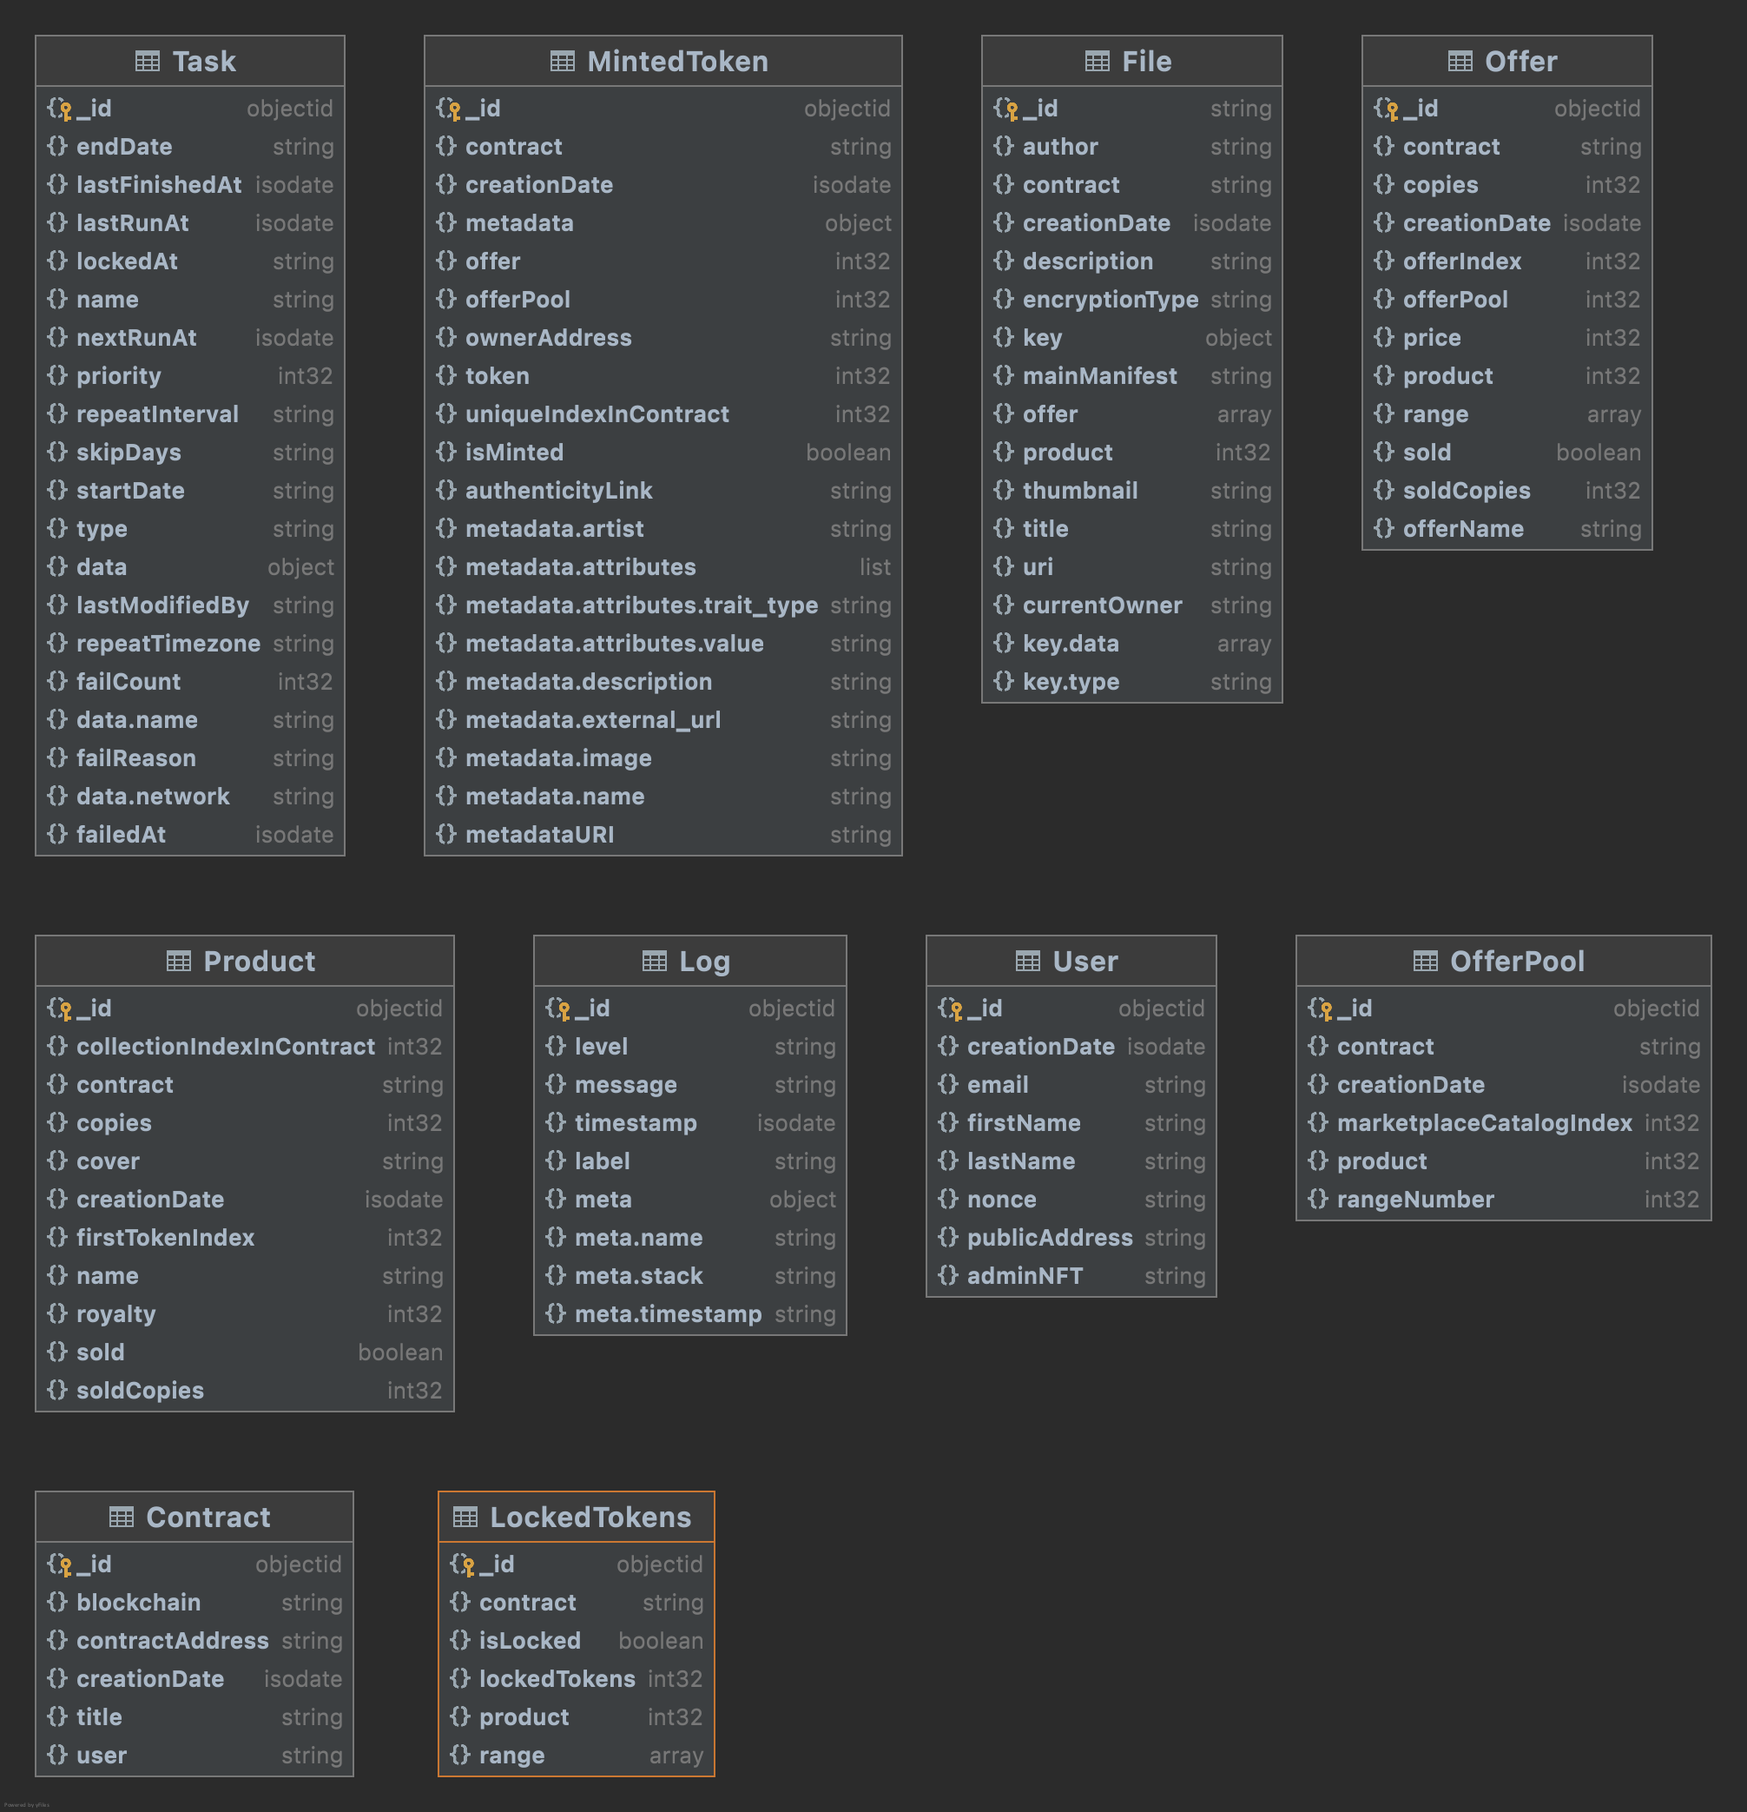
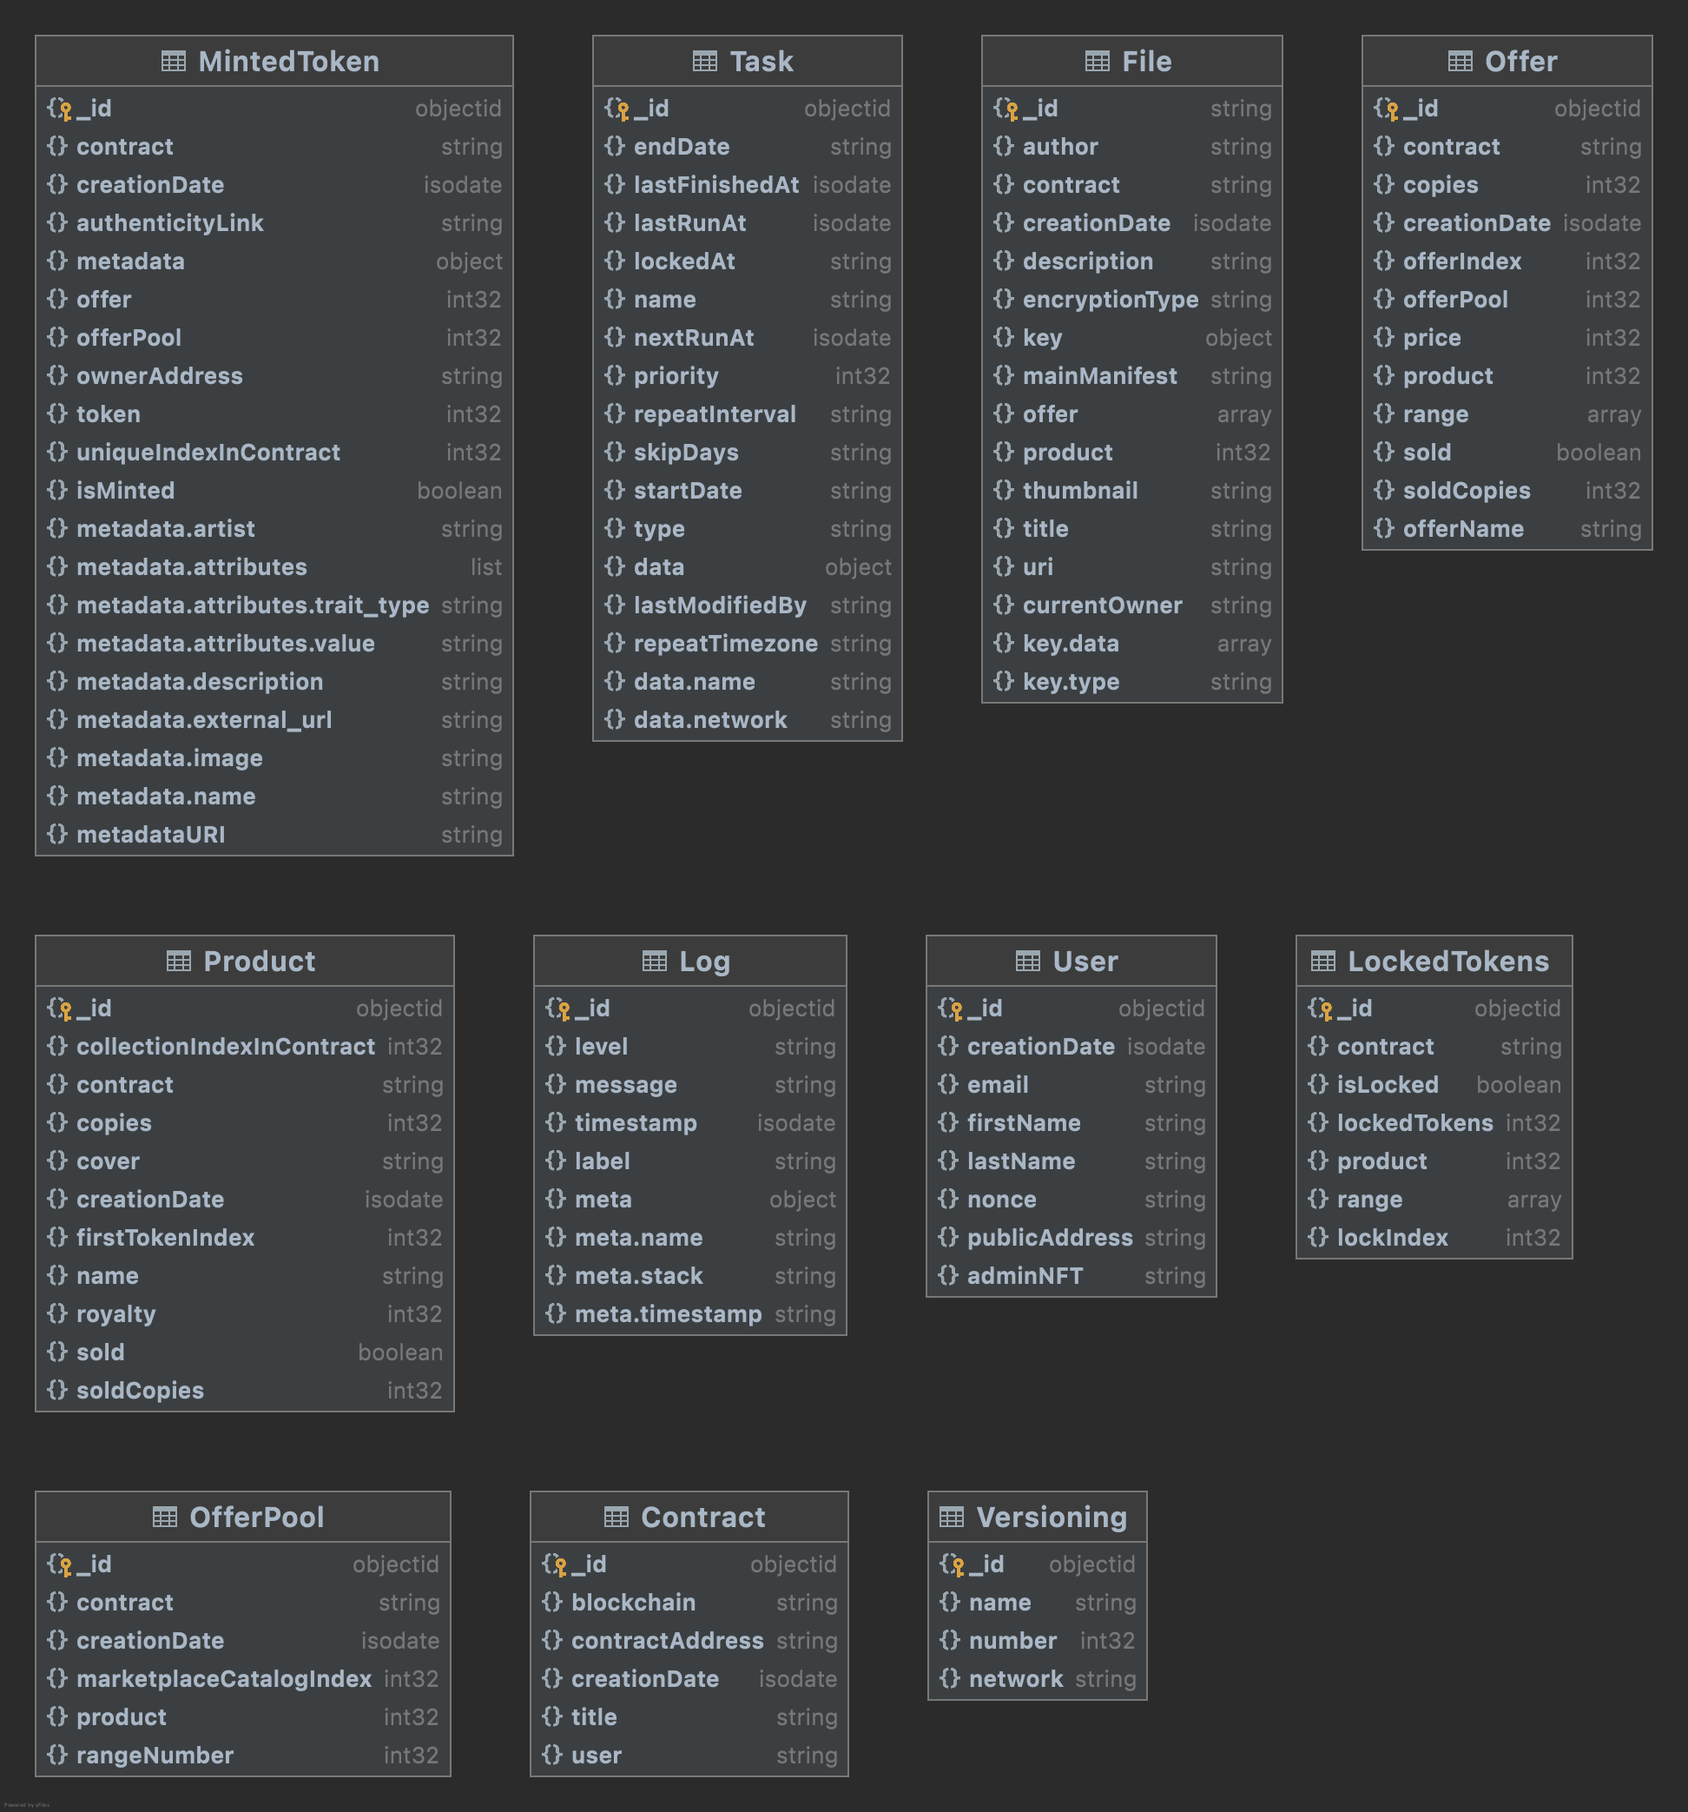
add the collection for storing versions of stored data from blockchain events; create unique index for new collection; adding functionality for request only latest data; refactoring;

diff --git a/blockchain-networks-service/bin/tasks/sync-locks.js b/blockchain-networks-service/bin/tasks/sync-locks.js
@@ -12,16 +12,23 @@ module.exports = (context) => {
       const { network, name } = task.attrs.data;
       const locksForSave = [];
       const locksForUpdate = [];
+      const block_number_locked = [];
+      const block_number_unlocked = [];
       const networkData = context.config.blockchain.networks[network];
       const { serverUrl, appId } = context.config.blockchain.moralis[networkData.testnet ? 'testnet' : 'mainnet'];
       const locked = getABIData(erc721Abi, 'event', 'RangeLocked');
       const unlocked = getABIData(erc721Abi, 'event', 'RangeUnlocked');
+      const versionLocked = await context.db.Versioning.findOne({ name: 'sync locks locked', network });
+      const versionUnlocked = await context.db.Versioning.findOne({ name: 'sync locks unlocked', network });
+
       const generalOptionsForLocked = {
         chain: networkData.network,
+        from_block: _.get(versionLocked, ['number'], 0),
         ...locked
       };
       const generalOptionsForUnlocked = {
         chain: networkData.network,
+        from_block: _.get(versionUnlocked, ['number'], 0),
         ...unlocked
       };
       const arrayOfContracts = await context.db.Contract.find({ blockchain: network }).distinct('contractAddress');
@@ -53,6 +60,8 @@ module.exports = (context) => {
                 productName
               } = lock.data;
 
+            block_number_locked.push(Number(lock.block_number));
+
               locksForSave.push({
                 lockIndex: lockIndex ? lockIndex : lock.block_number, // using block_number as lockIndex for test networks
                 contract,
@@ -68,6 +77,8 @@ module.exports = (context) => {
           _.forEach(eventsUnlocked.result, lock => {
               const { lockIndex, productID, startingToken, endingToken } = lock.data;
 
+            block_number_unlocked.push(Number(lock.block_number));
+
               locksForUpdate.push({
                 updateOne: {
                   filter: { contract, lockIndex: lockIndex ? lockIndex : lock.block_number }, // using block_number as lockIndex for test networks
@@ -76,7 +87,9 @@ module.exports = (context) => {
                     range: [startingToken, endingToken],
                     isLocked: false,
                     lockedTokens: 0
-                  }
+                  },
+                  upsert: true,
+                  setDefaultsOnInsert: true
                 }
               });
             });
@@ -95,6 +108,20 @@ module.exports = (context) => {
           await context.db.LockedTokens.bulkWrite(locksForUpdate, { ordered: false });
         } catch (e) {
         }
+      }
+
+      if (!_.isEmpty(block_number_locked)) {
+        await context.db.Versioning.updateOne({
+          name: 'sync locks locked',
+          network
+        }, { number: _.chain(block_number_locked).sortBy().last().value() }, { upsert: true });
+      }
+
+      if (!_.isEmpty(block_number_unlocked)) {
+        await context.db.Versioning.updateOne({
+          name: 'sync locks unlocked',
+          network
+        }, { number: _.chain(block_number_unlocked).sortBy().last().value() }, { upsert: true });
       }
 
       return done();

diff --git a/blockchain-networks-service/bin/tasks/sync-offers.js b/blockchain-networks-service/bin/tasks/sync-offers.js
@@ -12,14 +12,18 @@ module.exports = (context) => {
       const { network, name } = task.attrs.data;
       const offersForSave = [];
       const offerPoolsForUpdate = [];
+      const block_number = [];
       const networkData = context.config.blockchain.networks[network];
       const { serverUrl, appId } = context.config.blockchain.moralis[networkData.testnet ? 'testnet' : 'mainnet'];
       const { abi, topic } = getABIData(minterAbi, 'event', 'AppendedRange');
+      const version = await context.db.Versioning.findOne({ name: 'sync offers', network });
+
       const options = {
         address: networkData.minterAddress,
         chain: networkData.network,
         topic,
-        abi
+        abi,
+        from_block: _.get(version, ['number'], 0)
       };
 
       // Initialize moralis instances
@@ -27,7 +31,7 @@ module.exports = (context) => {
 
       const events = await Moralis.Web3API.native.getContractEvents(options);
 
-      _.forEach(events.result, offerPool => {
+      _.forEach(events.result, offer => {
         const {
           contractAddress,
           productIndex,
@@ -37,10 +41,12 @@ module.exports = (context) => {
           endToken,
           price,
           name
-        } = offerPool.data;
+        } = offer.data;
         const contract = contractAddress.toLowerCase();
         const marketplaceCatalogIndex = Number(offerIndex);
         const offerPoolIndex = _.findIndex(offerPoolsForUpdate, o => o.contract === contract && o.marketplaceCatalogIndex === marketplaceCatalogIndex);
+
+        block_number.push(Number(offer.block_number));
 
         if (offerPoolIndex < 0) {
           offerPoolsForUpdate.push({
@@ -82,6 +88,13 @@ module.exports = (context) => {
 
           await context.db.OfferPool.bulkWrite(resultOfferPools, { ordered: false });
         } catch (e) {}
+      }
+
+      if (!_.isEmpty(block_number)) {
+        await context.db.Versioning.updateOne({
+          name: 'sync offers',
+          network
+        }, { number: _.chain(block_number).sortBy().last().value() }, { upsert: true });
       }
 
       return done();

diff --git a/blockchain-networks-service/bin/tasks/sync-contracts.js b/blockchain-networks-service/bin/tasks/sync-contracts.js
@@ -11,8 +11,10 @@ module.exports = (context) => {
     try {
       const { network, name } = task.attrs.data;
       const contractsForSave = [];
+      const block_number = [];
       const networkData = context.config.blockchain.networks[network];
       const { serverUrl, appId } = context.config.blockchain.moralis[networkData.testnet ? 'testnet' : 'mainnet']
+      const version = await context.db.Versioning.findOne({ name: 'sync contracts', network });
 
       // Initialize moralis instances
       Moralis.start({ serverUrl, appId });
@@ -27,7 +29,8 @@ module.exports = (context) => {
         address: networkData.factoryAddress,
         chain: networkData.network,
         topic,
-        abi
+        abi,
+        from_block: _.get(version, ['number'], 0)
       }
 
       let events = await Moralis.Web3API.native.getContractEvents(options);
@@ -41,7 +44,9 @@ module.exports = (context) => {
           function_name: "name",
           abi: [nameAbi.abi]
         };
-        const title = await Moralis.Web3API.native.runContractFunction(nameOptions).catch(console.error);
+        const title = await Moralis.Web3API.native.runContractFunction(nameOptions);
+
+        block_number.push(Number(contract.block_number));
 
         contractsForSave.push({
           user: owner,
@@ -61,6 +66,13 @@ module.exports = (context) => {
         try {
           await context.db.Contract.insertMany(contractsForSave, { ordered: false });
         } catch (e) {}
+      }
+
+      if (!_.isEmpty(block_number)) {
+        await context.db.Versioning.updateOne({
+          name: 'sync contracts',
+          network
+        }, { number: _.chain(block_number).sortBy().last().value() }, { upsert: true });
       }
 
       return done();

diff --git a/blockchain-networks-service/bin/tasks/sync-products.js b/blockchain-networks-service/bin/tasks/sync-products.js
@@ -11,13 +11,17 @@ module.exports = (context) => {
     try {
       const { network, name } = task.attrs.data;
       const productsForSave = [];
+      const block_number = [];
       const networkData = context.config.blockchain.networks[network];
       const { serverUrl, appId } = context.config.blockchain.moralis[networkData.testnet ? 'testnet' : 'mainnet'];
       const { abi, topic } = getABIData(erc721Abi, 'event', 'ProductCreated');
+      const version = await context.db.Versioning.findOne({ name: 'sync products', network });
+
       const generalOptions = {
         chain: networkData.network,
         topic,
-        abi
+        abi,
+        from_block: _.get(version, ['number'], 0)
       };
       const arrayOfContracts = await context.db.Contract.find({ blockchain: network }).distinct('contractAddress');
 
@@ -34,6 +38,8 @@ module.exports = (context) => {
         await Promise.all(_.map(events.result, async product => {
           const { uid, name, startingToken, length } = product.data;
 
+          block_number.push(Number(product.block_number));
+
           productsForSave.push({
             contract,
             collectionIndexInContract: uid,
@@ -48,6 +54,13 @@ module.exports = (context) => {
         try {
           await context.db.Product.insertMany(productsForSave, { ordered: false });
         } catch (e) {}
+      }
+
+      if (!_.isEmpty(block_number)) {
+        await context.db.Versioning.updateOne({
+          name: 'sync products',
+          network
+        }, { number: _.chain(block_number).sortBy().last().value() }, { upsert: true });
       }
 
       return done();

diff --git a/blockchain-networks-service/bin/tasks/sync-tokens.js b/blockchain-networks-service/bin/tasks/sync-tokens.js
@@ -14,14 +14,18 @@ module.exports = (context) => {
       const tokensForSave = [];
       const offersForUpdate = [];
       const productsForUpdate = [];
+      const block_number = [];
       const networkData = context.config.blockchain.networks[network];
       const { serverUrl, appId } = context.config.blockchain.moralis[networkData.testnet ? 'testnet' : 'mainnet'];
       const { abi, topic } = getABIData(minterAbi, 'event', 'TokenMinted');
+      const version = await context.db.Versioning.findOne({ name: 'sync tokens', network });
+
       const options = {
         address: networkData.minterAddress,
         chain: networkData.network,
         topic,
-        abi
+        abi,
+        from_block: _.get(version, ['number'], 0)
       };
 
       // Initialize moralis instances
@@ -37,6 +41,9 @@ module.exports = (context) => {
           rangeIndex,
           tokenIndex,
         } = tokenData.data;
+
+        block_number.push(Number(tokenData.block_number));
+
         const contract = contractAddress.toLowerCase();
         const OfferP = Number(catalogIndex);
         const network = networkData.network;
@@ -178,6 +185,13 @@ module.exports = (context) => {
 
           await context.db.Product.bulkWrite(resultProducts, { ordered: false });
         } catch (e) {}
+      }
+
+      if (!_.isEmpty(block_number)) {
+        await context.db.Versioning.updateOne({
+          name: 'sync tokens',
+          network
+        }, { number: _.chain(block_number).sortBy().last().value() }, { upsert: true });
       }
 
       return done();

diff --git a/blockchain-networks-service/bin/tasks/sync-offerpools.js b/blockchain-networks-service/bin/tasks/sync-offerpools.js
@@ -11,14 +11,18 @@ module.exports = (context) => {
     try {
       const { network, name } = task.attrs.data;
       const offerPoolsForSave = [];
+      const block_number = [];
       const networkData = context.config.blockchain.networks[network];
       const { serverUrl, appId } = context.config.blockchain.moralis[networkData.testnet ? 'testnet' : 'mainnet'];
       const { abi, topic } = getABIData(minterAbi, 'event', 'AddedOffer');
+      const version = await context.db.Versioning.findOne({ name: 'sync offerPools', network });
+
       const options = {
         address: networkData.minterAddress,
         chain: networkData.network,
         topic,
-        abi
+        abi,
+        from_block: _.get(version, ['number'], 0)
       };
 
       // Initialize moralis instances
@@ -34,6 +38,8 @@ module.exports = (context) => {
           catalogIndex
         } = offerPool.data;
 
+        block_number.push(Number(offerPool.block_number));
+
         offerPoolsForSave.push({
           marketplaceCatalogIndex: catalogIndex,
           contract: contractAddress,
@@ -46,6 +52,13 @@ module.exports = (context) => {
         try {
           await context.db.OfferPool.insertMany(offerPoolsForSave, { ordered: false });
         } catch (e) {}
+      }
+
+      if (!_.isEmpty(block_number)) {
+        await context.db.Versioning.updateOne({
+          name: 'sync offerPools',
+          network
+        }, { number: _.chain(block_number).sortBy().last().value() }, { upsert: true });
       }
 
       return done();

diff --git a/demo-decrypt-node/bin/index.js b/demo-decrypt-node/bin/index.js
@@ -90,7 +90,8 @@ async function main() {
       OfferPool: _mongoose.model('OfferPool', require('./models/offerPool'), 'OfferPool'),
       Offer: _mongoose.model('Offer', require('./models/offer'), 'Offer'),
       MintedToken: _mongoose.model('MintedToken', require('./models/mintedToken'), 'MintedToken'),
-      LockedTokens: _mongoose.model('LockedTokens', require('./models/lockedTokes'), 'LockedTokens')
+      LockedTokens: _mongoose.model('LockedTokens', require('./models/lockedTokes'), 'LockedTokens'),
+      Versioning: _mongoose.model('Versioning', require('./models/versioning'), 'Versioning')
     },
     config
   };

diff --git a/blockchain-networks-service/bin/index.js b/blockchain-networks-service/bin/index.js
@@ -47,6 +47,7 @@ async function main() {
       Offer: _mongoose.model('Offer', require('./models/offer'), 'Offer'),
       MintedToken: _mongoose.model('MintedToken', require('./models/mintedToken'), 'MintedToken'),
       LockedTokens: _mongoose.model('LockedTokens', require('./models/lockedTokes'), 'LockedTokens'),
+      Versioning: _mongoose.model('Versioning', require('./models/versioning'), 'Versioning'),
       Task: _mongoose.model('Task', require('./models/task'), 'Task')
     },
     mongo: _db,

diff --git a/demo-decrypt-node/scripts/indexes.mongo.js b/demo-decrypt-node/scripts/indexes.mongo.js
@@ -49,6 +49,9 @@ const { MongoClient } = require('mongodb');
 
   await db.collection('LockedTokens').createIndex({ contract: 1, lockIndex: 1 }, { background: true, unique: true });
 
+
+  await db.collection('Versioning').createIndex({ name: 1, network: 1 }, { background: true, unique: true });
+
   console.log('Completed Database Indexes');
 
   process.exit(0);

diff --git a/blockchain-networks-service/bin/models/versioning.js b/blockchain-networks-service/bin/models/versioning.js
@@ -1,0 +1,11 @@
+const mongoose = require('mongoose');
+
+const { Schema } = mongoose;
+
+const Versioning = new Schema({
+  name: { type: String, required: true },
+  network: { type: String, required: true },
+  number: { type: Number, required: true }
+}, { versionKey: false });
+
+module.exports = Versioning;

diff --git a/demo-decrypt-node/bin/models/versioning.js b/demo-decrypt-node/bin/models/versioning.js
@@ -1,0 +1,11 @@
+const mongoose = require('mongoose');
+
+const { Schema } = mongoose;
+
+const Versioning = new Schema({
+  name: { type: String, required: true },
+  network: { type: String, required: true },
+  number: { type: Number, required: true }
+}, { versionKey: false });
+
+module.exports = Versioning;

diff --git a/blockchain-networks-service/bin/tasks/system-remove-processed-tasks.js b/blockchain-networks-service/bin/tasks/system-remove-processed-tasks.js
@@ -6,7 +6,6 @@ module.exports = (context) => {
       await context.agenda.cancel({ nextRunAt: null });
       return done();
     } catch (e) {
-      console.error(e);
       return done(e);
     }
   });
